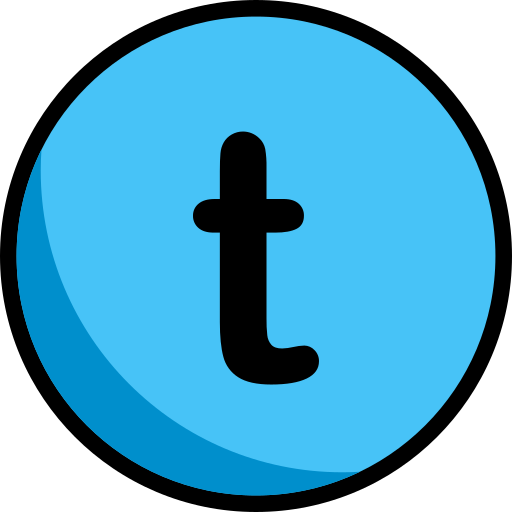
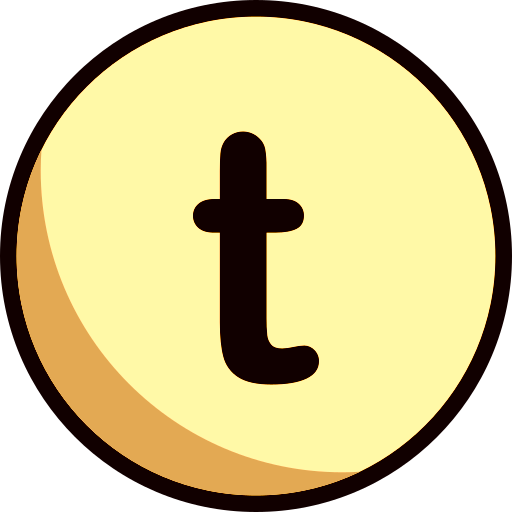
refactor: change colorscheme to pastel colors

diff --git a/public/index.html b/public/index.html
@@ -5,12 +5,43 @@
     <meta charset="UTF-8">
     <meta name="viewport" content="width=device-width, initial-scale=1.0">
     <link rel="icon" type="image/x-icon"
[1 lines of base64/hex data omitted]
-    <meta name="theme-color" content="#334155" />
-
[1 lines of base64/hex data omitted]
     <link rel="manifest" href="manifest.json" crossorigin="use-credentials" />
+
     <title>TERMOx</title>
     <script src="https://cdn.tailwindcss.com"></script>
+
+    <style>
+        :root {
+            --color-termo-background: #e3e4e6;
+            --color-termo-text: #f8f9fa;
+            --color-termo-title: #0b2545;
+            --color-termo-link: #8c6d77;
+            --color-termo-correct: #c6e9a7;
+            --color-termo-present: #f9bb85;
+            --color-termo-absent: #5b4e52;
+            --color-termo-active: #9a8284;
+            --color-termo-key: #ad9994;
+        }
+
+        @media (prefers-color-scheme: dark) {
+            :root {
+                --color-termo-background: #1e1e1e;
+                --color-termo-text: #ffffff;
+                --color-termo-title: #e3e4e6;
+                --color-termo-link: #d9a3b5;
+                --color-termo-correct: #c6e9a7;
+                --color-termo-present: #f9bb85;
+                --color-termo-absent: #4d4245;
+                --color-termo-active: #8a6c6f;
+                --color-termo-key: #a58d88;
+            }
+        }
+    </style>
+
+    <meta name="theme-color" media="(prefers-color-scheme: light)" content="#e3e4e6" />
+    <meta name="theme-color" media="(prefers-color-scheme: dark)" content="#1e1e1e" />
+
     <link href="https://cdn.jsdelivr.net/npm/flowbite@3.1.2/dist/flowbite.min.css" rel="stylesheet" />
 
     <style>
@@ -18,23 +49,24 @@
     </style>
 </head>
 
-<body class="flex flex-col items-center justify-center font-mitr font-semibold text-lg min-h-screen bg-slate-700 p-4">
+<body
+    class="flex flex-col items-center justify-center font-mitr font-semibold text-lg min-h-screen bg-[var(--color-termo-background)] text-[var(--color-termo-text)] p-4">
     <div id="modal"></div>
-    <h1 class="text-4xl font-semibold font-[Mitr] text-white mb-4 tracking-wider">TERMOx</h1>
+    <h1 class="text-4xl font-semibold font-[Mitr] text-[var(--color-termo-title)] mb-4 tracking-wider">TERMOx</h1>
     <nav class="mb-6 space-x-4 flex justify-center">
-        <a href="/" class="text-blue-500 hover:underline">
+        <a href="/" class="text-[var(--color-termo-link)] hover:underline">
             Termo
         </a>
-        <a href="/?q=2" class="text-blue-500 hover:underline">
+        <a href="/?q=2" class="text-[var(--color-termo-link)] hover:underline">
             Dueto
         </a>
-        <a href="/?q=4" class="text-blue-500 hover:underline">
+        <a href="/?q=4" class="text-[var(--color-termo-link)] hover:underline">
             Quarteto
         </a>
     </nav>
 
     <div id="game-container" class="flex flex-col items-center space-y-6"></div>
-    <div id="keyboard-buttons" class="grid grid-cols-10 gap-2 max-w-md"></div>
+    <div id="keyboard-buttons" class="grid grid-cols-10 gap-1 max-w-md"></div>
 
     <script src="https://cdn.jsdelivr.net/npm/flowbite@3.1.2/dist/flowbite.min.js"></script>
 </body>

diff --git a/public/client.js b/public/client.js
@@ -1,5 +1,3 @@
-// remove GAROA
-
 document.addEventListener("DOMContentLoaded", async () => {
   let gameEnded = false;
   const completedGrids = new Set();
@@ -19,7 +17,7 @@ document.addEventListener("DOMContentLoaded", async () => {
 
   const classes = {
     base: [
-      "text-white",
+      "text-[var(--color-termo-text)]",
       "font-[Mitr]",
       "cursor-pointer",
       "font-semibold",
@@ -29,27 +27,50 @@ document.addEventListener("DOMContentLoaded", async () => {
     button: [
       "p-0",
       "w-6",
-      "h-6",
-      "text-white",
-      "bg-slate-600",
       "rounded",
-      "text-sm",
-      "font-semibold",
+      "bg-[var(--color-termo-key)]",
       "font-[Mitr]",
+      "font-semibold",
       "last:w-fit",
-
-      // Larger sizes for larger screens
-      "sm:p-2",
+      "last:px-2",
+      "sm:p-1",
       "sm:w-10",
       "sm:h-10",
       "sm:text-lg",
+      "transition",
+      "duration-150",
+      "ease-in-out",
     ],
-    correct: ["bg-lime-500", "border-lime-500"],
-    present: ["bg-yellow-500", "border-yellow-500"],
-    used: ["bg-slate-900", "border-slate-900", "bg-opacity-30"],
-    incorrect: ["bg-slate-500", "border-slate-500"],
-    active: ["bg-transparent", "border-slate-500", "opacity-100"],
-    focus: ["border-white"],
+    correct: [
+      "bg-[var(--color-termo-correct)]",
+      "border-[var(--color-termo-correct)]",
+      "text-[var(--color-termo-absent)]",
+    ],
+    present: [
+      "bg-[var(--color-termo-present)]",
+      "border-[var(--color-termo-present)]",
+      "text-[var(--color-termo-absent)]",
+    ],
+    incorrect: [
+      "bg-[var(--color-termo-absent)]",
+      "border-[var(--color-termo-absent)]",
+      "text-[var(--color-termo-text)]",
+    ],
+    used: [
+      "bg-[var(--color-termo-absent)]",
+      "border-[var(--color-termo-absent)]",
+      "bg-opacity-30",
+    ],
+    active: [
+      "bg-[var(--color-termo-active)]",
+      "border-[var(--color-termo-active)]",
+      "text-[var(--color-termo-text)]",
+    ],
+    focus: [
+      "bg-transparent",
+      "border-[var(--color-termo-active)]",
+      "text-[var(--color-termo-active)]",
+    ],
   };
 
   let wordSet = new Set();
@@ -84,12 +105,11 @@ document.addEventListener("DOMContentLoaded", async () => {
           "flex",
           "items-center",
           "justify-center",
-          "text-white",
           "uppercase",
           "rounded-md",
         );
         if (row > 0) {
-          cell.classList.add("bg-slate-500", "opacity-50", "border-slate-500");
+          cell.classList.add(...classes.active, "opacity-50");
         }
 
         cell.dataset.row = row;
@@ -321,6 +341,8 @@ document.addEventListener("DOMContentLoaded", async () => {
     updateFocus();
   }
 
+  const lockedRows = new Set();
+
   document.addEventListener("keydown", (event) => {
     if (event.ctrlKey || event.metaKey) {
       if (
@@ -349,12 +371,25 @@ document.addEventListener("DOMContentLoaded", async () => {
     if (
       keys.includes(key) ||
       ["BACKSPACE", "ENTER"].includes(key)
-    ) write(key);
+    ) {
+      if (lockedRows.has(currentRow) && key !== "ENTER") return;
+      write(key);
+      if (key === "ENTER") {
+        lockedRows.add(currentRow);
+      }
+    }
   });
 
   keyboard.addEventListener("click", (event) => {
     const key = event.target.dataset.key;
-    if (key) write(key);
+    if (key) {
+      if (lockedRows.has(currentRow) && key !== "ENTER") return;
+      write(key);
+
+      if (key === "ENTER") {
+        lockedRows.add(currentRow);
+      }
+    }
   });
 
   updateFocus();
